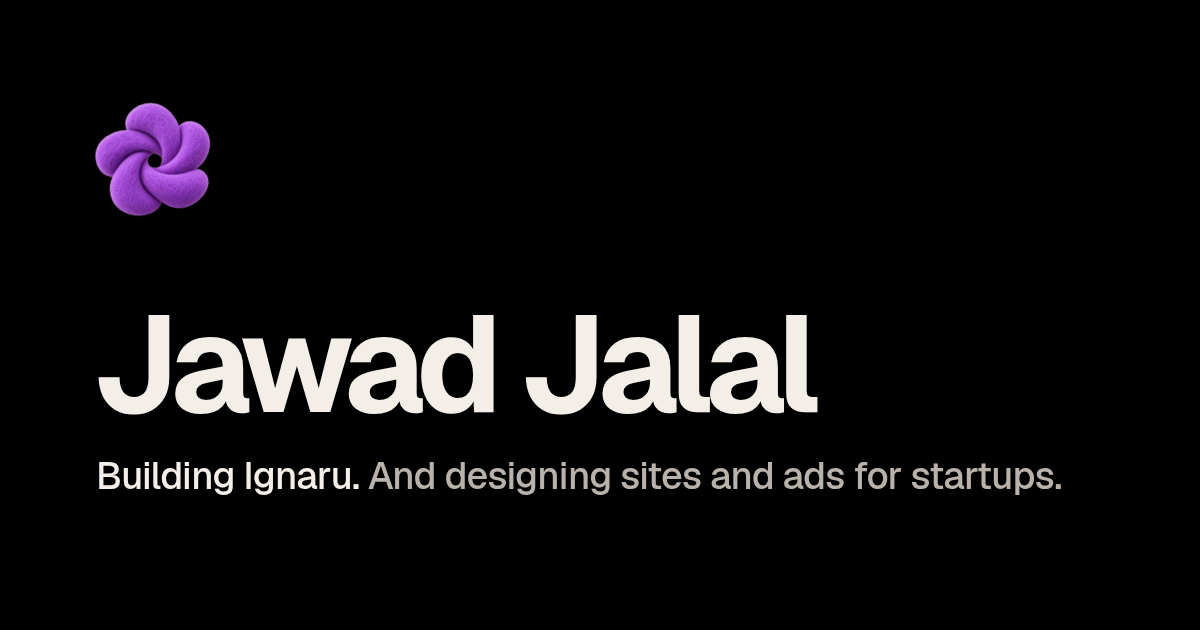
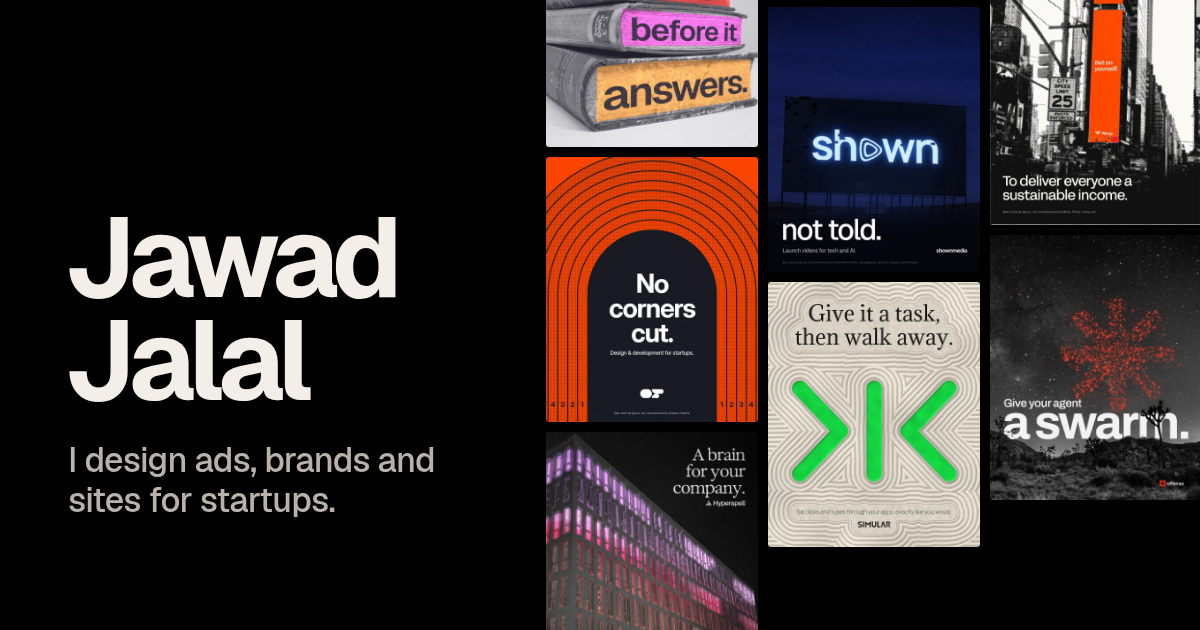
More work on the home page and a new link card
The share card shows the work: the name and one line beside a wall of eight of
his ads (scripts/og.mjs, OG=strip keeps the other layout). The work and ads
drawers get a wall of the 17 newest ads, each opening full size, and the work
drawer gets four brand studies. Pictures at 440, 880 and full width, lazy, with
their proportions held so nothing shifts as they load. Every ad is labelled as
spec work, made unasked.

diff --git a/src/components/felt/Drawer.tsx b/src/components/felt/Drawer.tsx
@@ -15,7 +15,7 @@
  */
 import { useEffect, useRef, useState, type CSSProperties, type PointerEvent as RPointerEvent, type ReactNode } from "react";
 import { dayLink, type Booking } from "./booking";
-import { ASIDE, BEST, BEST_SETS, BOOK, CV, DRAWERS, EMAIL, FIVE, JOBS, MADE, REAL, SITES, drawerAt, feltSrc, lift, type Ad, type AdSet, type DrawerId, type Site } from "./copy";
+import { ASIDE, BEST, BEST_SETS, BOARDS, BOOK, CV, DRAWERS, EMAIL, FIVE, JOBS, MADE, MORE, REAL, SITES, drawerAt, feltSrc, lift, type Ad, type AdSet, type DrawerId, type Piece, type Site } from "./copy";
 import { MeetMark } from "./Meet";
 import { SOCIALS } from "./Socials";
 import { sfx } from "./Sound";
@@ -477,6 +477,43 @@ function AdRow({ s, z, w, title, cols }: { s: AdSet; z: Ctx["z"]; w: 2 | 3 | 4 |
   );
 }
 
+/** One piece on the wall or among the boards: three widths, its own proportions held before it loads, opening full size. */
+function PieceShot({ p, z, sizes }: { p: Piece; z: Ctx["z"]; sizes: string }) {
+  return (
+    <button type="button" className="kx-media bx-piece" onClick={() => z(p.src, p.alt, p.h > p.w)} aria-label={`Open full size: ${p.alt}`} style={{ aspectRatio: `${p.w} / ${p.h}` }}>
+      {/* eslint-disable-next-line @next/next/no-img-element */}
+      <img src={p.mid} srcSet={`${p.small} 440w, ${p.mid} 880w`} sizes={sizes} alt={p.alt} width={p.w} height={p.h} loading="lazy" decoding="async" />
+      <span className="kx-expand" aria-hidden="true">
+        <i />
+        {p.brand}
+      </span>
+    </button>
+  );
+}
+
+/** Many ads at once, fast to scan: columns that keep each ad's own shape (the tall Outpace, the wide Whop blimp), no
+ *  crops, no frames. Four across on a desktop, two on a phone. */
+const Wall = ({ items, z }: { items: Piece[]; z: Ctx["z"] }) => (
+  <div className="bx-wall">
+    {items.map((p) => (
+      <PieceShot key={p.key} p={p} z={z} sizes="(max-width: 760px) 46vw, 240px" />
+    ))}
+  </div>
+);
+
+/** The brand studies: the Outpace board across the cell, then Fish Audio's board and two lead pieces in one row of equal
+ *  height (the columns are set in proportion to each picture, so nothing is cropped). */
+const Boards = ({ z }: { z: Ctx["z"] }) => (
+  <div className="bx-boards">
+    <PieceShot p={BOARDS.outpace} z={z} sizes="(max-width: 760px) 100vw, 920px" />
+    <div className="bx-boards-row">
+      <PieceShot p={BOARDS.fish} z={z} sizes="(max-width: 760px) 100vw, 460px" />
+      <PieceShot p={BOARDS.launchpoint} z={z} sizes="(max-width: 760px) 46vw, 260px" />
+      <PieceShot p={BOARDS.suna} z={z} sizes="(max-width: 760px) 46vw, 260px" />
+    </div>
+  </div>
+);
+
 /** A live site in a plain window: its address, the first screen, and (where there is one) the whole page scrolling
  *  past under the pointer. Opens the site. */
 function Win({ w, narrow, sizes = "(max-width: 760px) 100vw, 560px" }: { w: Site; narrow?: boolean; sizes?: string }) {
@@ -583,7 +620,7 @@ const PAGES: Record<DrawerId, Page> = {
         Hi, I&apos;m Jawad. Here&apos;s my <Circ>work</Circ>.
       </>
     ),
-    line: "15, in London, building Ignaru. I design ads and sites for startups. Below: the ads, the products I started, the sites I built and where I have worked.",
+    line: "15, in London, building Ignaru. I design ads and sites for startups. Below: the ads and brand studies, the products I started, the sites I built and where I have worked.",
     mark: "/felt/jawad-head-320.webp",
     bar: () => ({ ...call, also: mail }),
     body: ({ z, go }) => (
@@ -593,6 +630,12 @@ const PAGES: Record<DrawerId, Page> = {
         </Cell>
         <Cell w={2} title="Outpace" line="Spec. A relay baton across their lane.">
           <AdShot a={BEST.team} z={z} sizes="(max-width: 760px) 90vw, 260px" />
+        </Cell>
+        <Cell w={6} title="Newest ads" line="The newest eight. Spec, like every ad here: none of these companies is a client." more={<More label={`all ${MORE.length}`} to={() => go("ads")} />} className="bx-wall-c">
+          <Wall items={MORE.slice(0, 8)} z={z} />
+        </Cell>
+        <Cell w={6} title="Brand studies" line="A whole look for one company, from its own colours and words. Unasked, and each says so in its corner." className="bx-wall-c">
+          <Boards z={z} />
         </Cell>
         <SiteCell k="bevel" w={6} lead />
         <SiteCell k="bidframe" w={3} />
@@ -617,6 +660,9 @@ const PAGES: Record<DrawerId, Page> = {
     bar: () => ({ href: "https://ignaru.com/ads", label: "book ads", also: mail }),
     body: ({ z }) => (
       <>
+        <Cell w={6} title="Newest first" line={`The ${MORE.length} newest, before the sets. Open any one full size.`} className="bx-wall-c bx-lead">
+          <Wall items={MORE} z={z} />
+        </Cell>
         {BEST_SETS.map((x) => (
           <SetCell key={x.key} s={x} z={z} />
         ))}

diff --git a/src/components/felt/copy.ts b/src/components/felt/copy.ts
@@ -293,6 +293,55 @@ export const BEST_SETS: AdSet[] = [
   { key: "whop-best", brand: "Whop", from: "whop.com", says: "Their own lines, in their orange, on real photographs.", ads: [BEST.income, BEST.economy, BEST.fly, BEST.list] },
 ];
 
+/** A piece on the wall: three widths of one picture (440, 880 and the full file), its size, and what it is. */
+export type Piece = { key: string; brand: string; alt: string; small: string; mid: string; src: string; w: number; h: number };
+
+const piece = (dir: string, key: string, brand: string, says: string, shows: string, w = 1080, h = 1350): Piece => ({
+  key,
+  brand,
+  alt: `${brand}: ${says} ${shows}`.trim(),
+  small: `${dir}/${key}-440.webp`,
+  mid: `${dir}/${key}-880.webp`,
+  src: `${dir}/${key}.webp`,
+  w,
+  h,
+});
+const more = (key: string, brand: string, says: string, shows: string, w?: number, h?: number) => piece("/ads/more", key, brand, says, shows, w, h);
+
+/** The newest ads (11 and 12 Nov 2026): his top twenty (~/Desktop/top-20, less those already in the drawers and two held
+ *  back) and the 12 Nov sets (~/night/real/set-*-n12). Spec work, made unasked: none of these companies is a client.
+ *  The Jam ad leads (his favourite of the night). */
+export const MORE: Piece[] = [
+  more("jam", "Jam", "What AI reads before it answers.", "Four old books stacked, their spines printed in Jam's colours."),
+  more("offense", "Offense", "Give your agent a swarm.", "A red swarm of points over a desert at night."),
+  more("hyperspell", "Hyperspell", "A brain for your company.", "An office block at dusk, its windows lit pink."),
+  more("click-land", "Click", "Land instantly.", "A runway at night, its lights in Click blue."),
+  more("whop-blimp", "Whop", "The fastest path to your next dollar.", "An orange Whop blimp over a crowd, in halftone.", 1600, 900),
+  more("simular-walk", "Simular", "Give it a task, then walk away.", "Sai's mark in green, pressed into raked sand."),
+  more("grokbot", "Grok Bot", "AI teammates that work 24/7.", "A tower at night, lit blue, under a full moon."),
+  more("instabox-box", "InstaBox", "Every agent gets its own box.", "A stack of shipping containers painted InstaBox green."),
+  more("outpace-marathon", "Outpace", "Marathon. Your design and dev team, month to month.", "A running track curling round the line on orange."),
+  more("launchpoint", "Launchpoint", "Copied videos don't get paid.", "The same purple poster pasted twice on a wall."),
+  more("outpace-field", "Outpace", "Momentum.", "An orange track in a green field, the word painted round its bend, seen from above.", 1080, 1920),
+  more("serveros", "ServerOS", "Stop babysitting your servers.", "A man fishing off a jetty, a list of fixed outages above him."),
+  more("simular-click", "Simular", "If you can click it, Sai can.", "A green bar standing in black ridges."),
+  more("click-market", "Click", "Every market. Every screen.", "Towers at night, one outlined in Click blue."),
+  more("whop-tower", "Whop", "The new economy.", "A black and white tower block with a tall orange Whop banner."),
+  more("instabox-address", "InstaBox", "Every box gets an address.", "A long row of green letterboxes."),
+  more("outpace-ideation", "Outpace", "From ideation to hand-off.", "A track winding across the poster on green."),
+];
+
+/** Brand studies, unasked (each says so in its own corner): the Outpace and Fish Audio boards, Launchpoint and Suna's
+ *  lead pieces. 2000 wide copies of the 2400 finals (~/night/real/brand-*). Chosen over the Shown, Monid and Dreamstate
+ *  boards, which read as kits rather than worlds. */
+const board = (key: string, brand: string, says: string, w: number, h: number) => piece("/design/boards", key, brand, says, "", w, h);
+export const BOARDS = {
+  outpace: board("outpace-board", "Outpace Studios", "A brand study: their orange as a running track, on posters, a ticket, a stopwatch and their own site.", 2000, 1125),
+  fish: board("fishaudio-board", "Fish Audio", "A brand study: engraved fish and an ear in their lilac and coral, with their own lines.", 2000, 1125),
+  launchpoint: board("launchpoint-hero", "Launchpoint", "Trust every number. Fine lines drawn into one flare.", 2000, 2000),
+  suna: board("suna-hero", "Suna", "Finally understand your gut. A stippled sun over the name.", 2000, 2000),
+} satisfies Record<string, Piece>;
+
 export type ShelfItem = { src: string; big: string; alt: string };
 
 /** The first screen's shelf: only ads he scored 7 or 8, the 8 in the middle. Each opens the ads drawer. */

diff --git a/src/components/felt/felt.css b/src/components/felt/felt.css
@@ -394,6 +394,14 @@ html.fh-locked .rg-shelf li, html.fh-locked .rg-img { animation-play-state: paus
 .bx-set-says span { display: block; margin-top: 7px; font-size: 13px; font-weight: 400; letter-spacing: -0.005em; color: var(--ink-3); }
 /* a set as a row: every ad side by side */
 .bx-row { display: grid; grid-template-columns: repeat(var(--cols, 4), minmax(0, 1fr)); gap: 8px; }
+/* the wall: many ads at once in columns, each at its own shape; the boards: one across, then three of equal height */
+.bx-wall-c .bx-h h3 { font-size: 26px; letter-spacing: -0.03em; }
+.bx-wall { columns: 4; column-gap: 8px; }
+.bx-wall .bx-piece { margin-bottom: 8px; break-inside: avoid; }
+.bx-piece { background: #1d1d1d; }
+.bx-piece > img { width: 100%; height: 100%; object-fit: cover; }
+.bx-boards { display: grid; gap: 8px; }
+.bx-boards-row { display: grid; grid-template-columns: 1.7778fr 1fr 1fr; gap: 8px; align-items: start; }
 .bx-row-c .bx-h h3 { font-size: 26px; letter-spacing: -0.03em; }
 /* the price: the largest words in its drawer */
 .bx-price .bx-h h3 { font-size: 34px; letter-spacing: -0.04em; }
@@ -596,6 +604,10 @@ html.fh-locked .rg-shelf li, html.fh-locked .rg-img { animation-play-state: paus
 .bx-set-pick.n6 { grid-template-columns: repeat(3, minmax(0, 1fr)); }
   .bx-set-says { min-height: 0; font-size: 17px; }
   .bx-row { grid-template-columns: repeat(2, minmax(0, 1fr)); }
+  .bx-wall { columns: 2; }
+  .bx-wall-c .bx-h h3 { font-size: 22px; }
+  .bx-boards-row { grid-template-columns: repeat(2, minmax(0, 1fr)); }
+  .bx-boards-row > :first-child { grid-column: 1 / -1; }
   .bx-price .bx-h h3 { font-size: 28px; }
   .bx-fan { min-height: 230px; margin-inline: -14px; }
   .bx-fan-i { width: 29%; }

diff --git a/src/app/layout.tsx b/src/app/layout.tsx
@@ -17,10 +17,9 @@ export const metadata: Metadata = {
     url: IDENTITY.site,
     siteName: IDENTITY.properName,
     type: "profile",
-    // Built by scripts/og.mjs: the name, the hero's own line and one felt
-    // petal on black. Rebuild with `npm run og` after changing the hero
-    // line.
-    images: [{ url: "/og.png", width: 1200, height: 630, alt: "Jawad Jalal. Building Ignaru. And designing sites and ads for startups." }],
+    // Built by scripts/og.mjs: the name and one line on black beside a
+    // wall of his ads. Rebuild with `npm run og` after changing either.
+    images: [{ url: "/og.png", width: 1200, height: 630, alt: "Jawad Jalal. I design ads, brands and sites for startups. Beside it, eight of his ads." }],
   },
   twitter: {
     card: "summary_large_image",

diff --git a/README.md b/README.md
@@ -16,7 +16,7 @@ npm run dev
 | Any word on the home page and its drawers | `src/components/felt/copy.ts` (the dial's five doors, their lines, the bar) and `Drawer.tsx` |
 | The home page's look: halftone, bar, ring, drawers | `src/components/felt/felt.css` (after ignaru.com's `components/home`) |
 | The CV, the blog and the JSON-LD facts | `src/lib/profile.ts` |
-| The drawers' stills | `public/sites`, `public/okara`, `public/menufit`, `public/ads` |
+| The drawers' stills | `public/sites`, `public/okara`, `public/menufit`, `public/ads` (the wall: `public/ads/more`, 440, 880 and full), `public/design/boards` |
 | Colours and type on the blog | `src/app/globals.css` (the ignura skin is the last block) |
 | The icon set | `src/components/Icon.tsx` |
 | Page structure | `src/app/page.tsx` |
